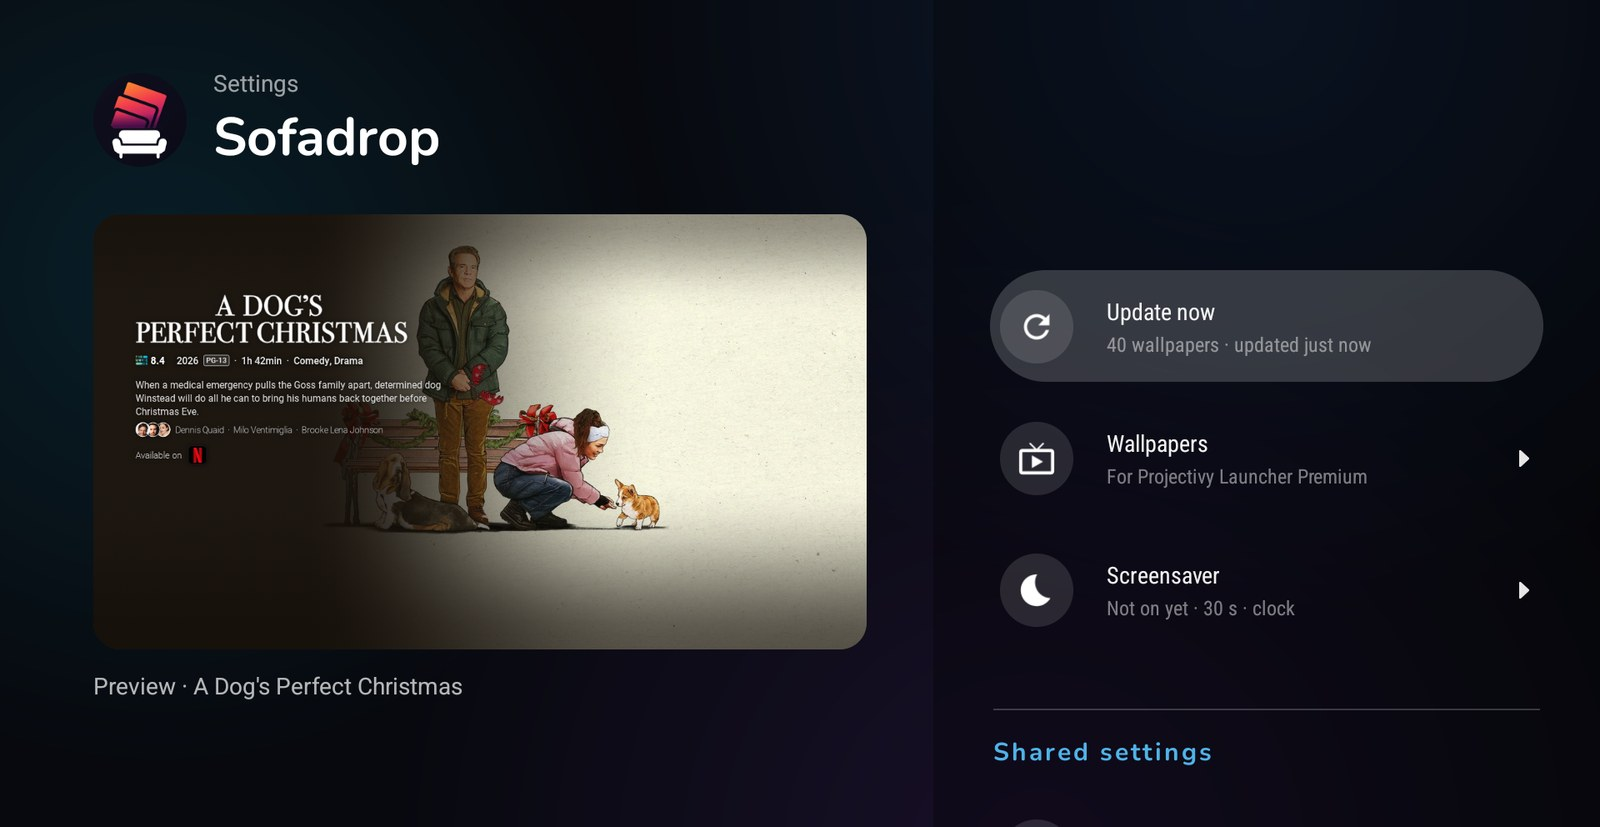
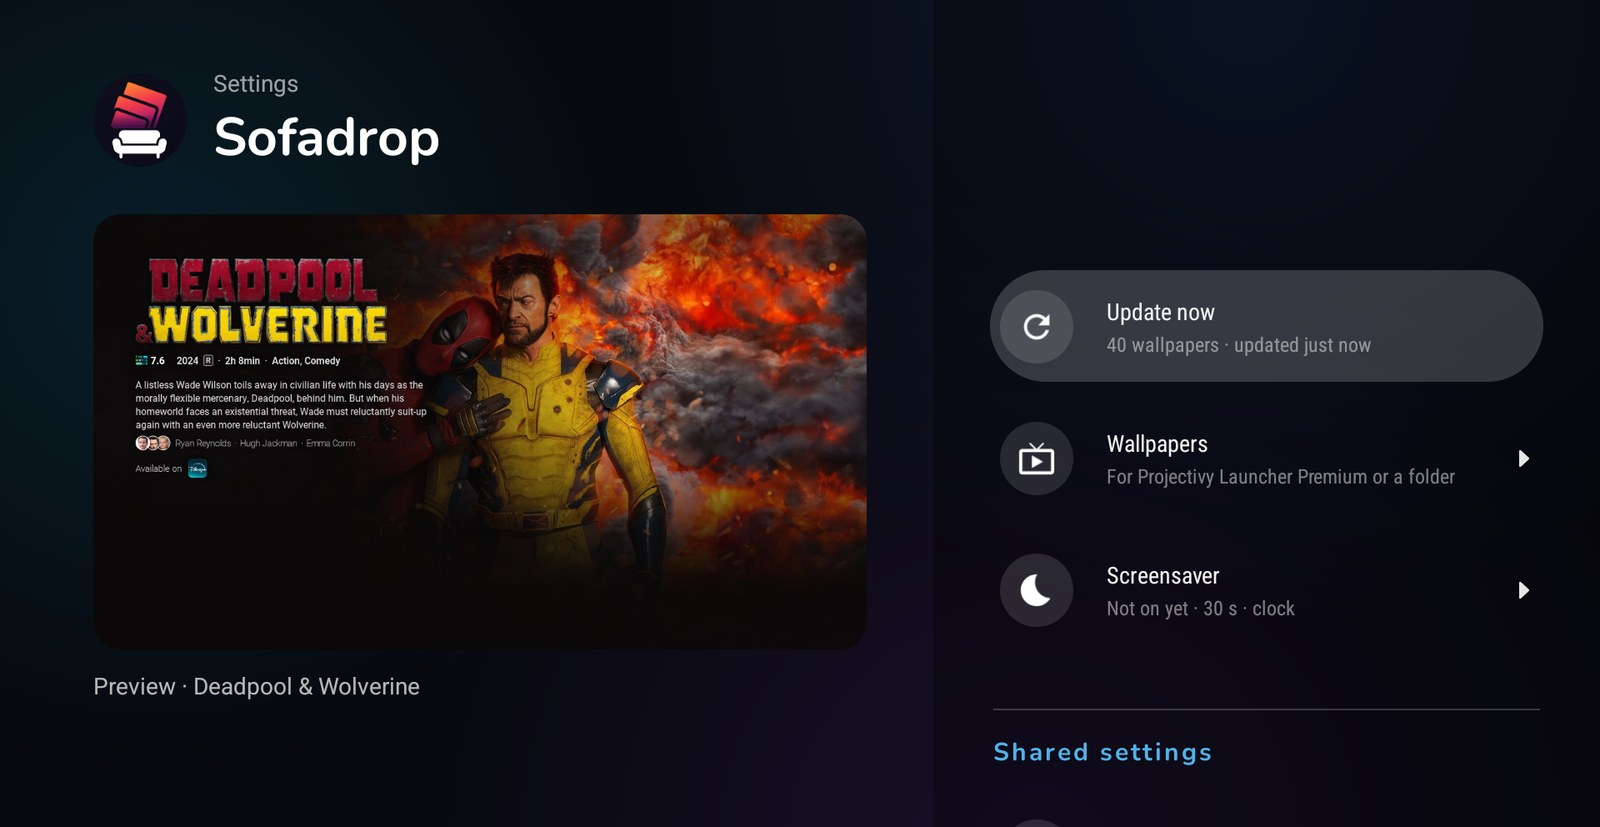
Google Play test steps, Play one version code above GitHub, README settings image
- The Play flavor's version code is the GitHub one + 1 (1.2.1: 6 and 7), so Google Play replaces
  a GitHub install of the same release when its user joins the test
- About's "Test it on Google Play" QR opens the README's steps: the test's own link only works
  after joining its Google Group, and the README can change without a new version
- README: Google Play test section, and the settings screenshot with the current rows

Changed region(s): [[0.0625, 0.2418, 0.5625, 0.786], [0.125, 0.8162, 0.2812, 0.8464], [0.875, 0.5744, 0.9062, 0.6046]]

diff --git a/app/src/main/java/com/rfmarcos/sofadrop/AboutFragment.kt b/app/src/main/java/com/rfmarcos/sofadrop/AboutFragment.kt
@@ -128,6 +128,8 @@ class AboutFragment : BaseSettingsFragment() {
         private const val ID_WIZARD = 7L
         private const val ID_SETTINGS_FILE = 8L
         private const val ID_BETA = 9L
-        private const val BETA_URL = "https://play.google.com/apps/testing/com.rfmarcos.sofadrop"
+        // The README's steps: the test's own link only works after joining its Google Group, and the page can
+        // change (e.g. once Sofadrop is published) without a new version
+        private const val BETA_URL = "https://github.com/rfmarcos/sofadrop#google-play-test"
     }
 }

diff --git a/README.md b/README.md
@@ -68,6 +68,15 @@ Then choose **Configure** in the same screen (or open Sofadrop from your apps): 
 
 > **Google Play Protect** may block the install with *"Play Protect doesn't recognise other apps from this developer"*. Sofadrop isn't on Google Play, so Google doesn't know its developer yet. Choose **More details → Install anyway**.
 
+### <a id="google-play-test"></a>🧪 Google Play test
+
+Sofadrop is coming to Google Play, and to get there it needs testers with a Google TV or Android TV (Fire TV has no Play Store). With your phone or computer, **using the same Google account as your TV**:
+
+1. Join the testers' group: [**groups.google.com/g/sofadrop-testers**](https://groups.google.com/g/sofadrop-testers) → *Join group*.
+2. Accept the test: [**play.google.com/apps/testing/com.rfmarcos.sofadrop**](https://play.google.com/apps/testing/com.rfmarcos.sofadrop) → *Become a tester*.
+
+Then Sofadrop updates from the Play Store on your TV, keeping your settings. Please stay in the test for at least 14 days: Google Play asks for 12 testers over 14 days before an app can be published. The Play version has the same features, without the in-app updater, plus an optional one-time purchase for the screensaver clock's colours. To leave, open the second link and choose *Leave the program*.
+
 ## ⚙ Settings
 
 The left side of the settings shows a **live preview** of a wallpaper with your current choices. Changes are applied when you leave the settings, or right away with **Update now**.
